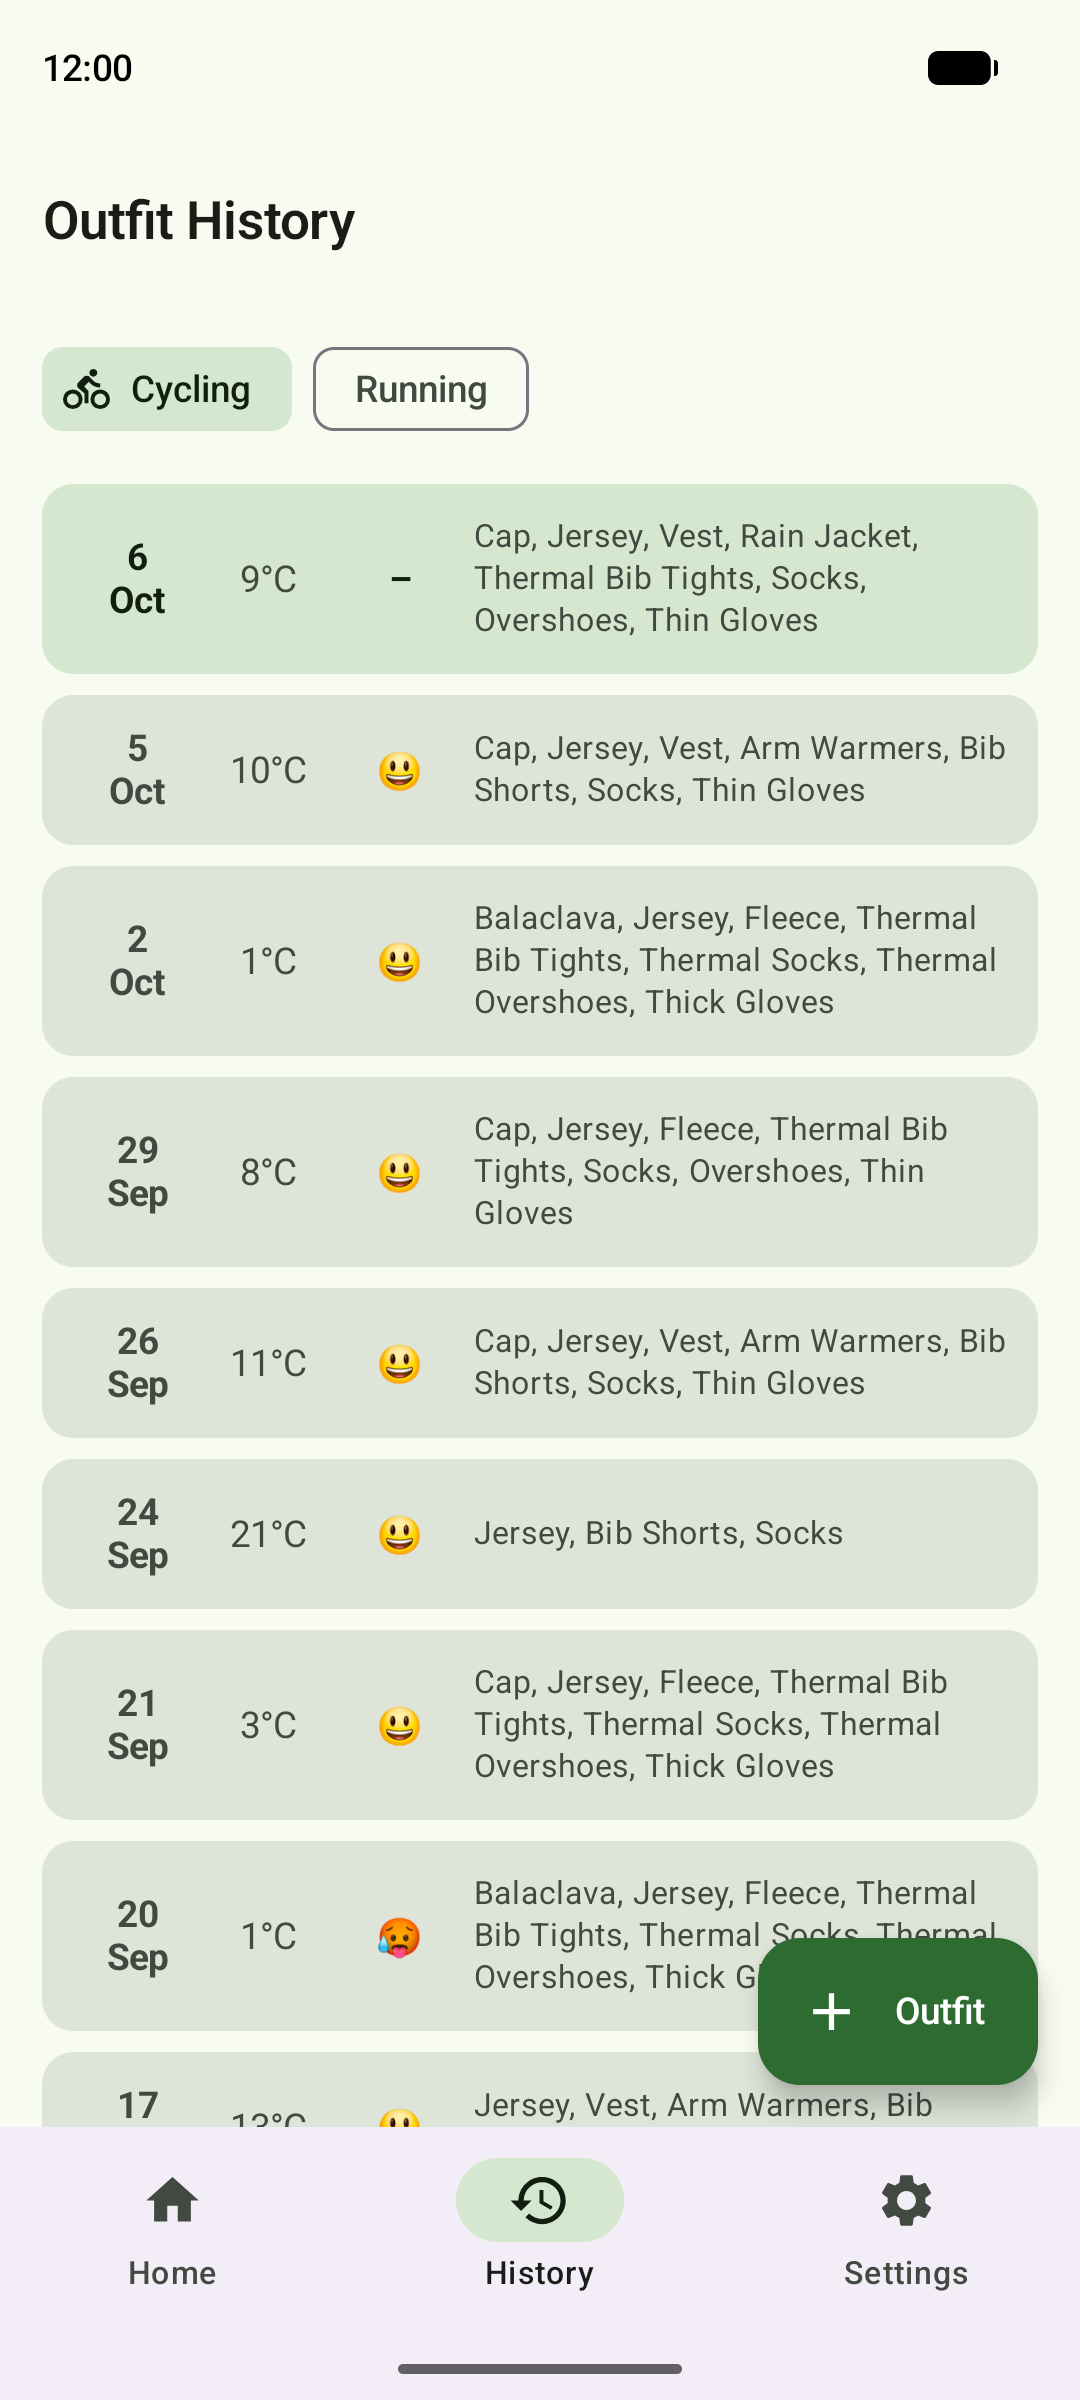
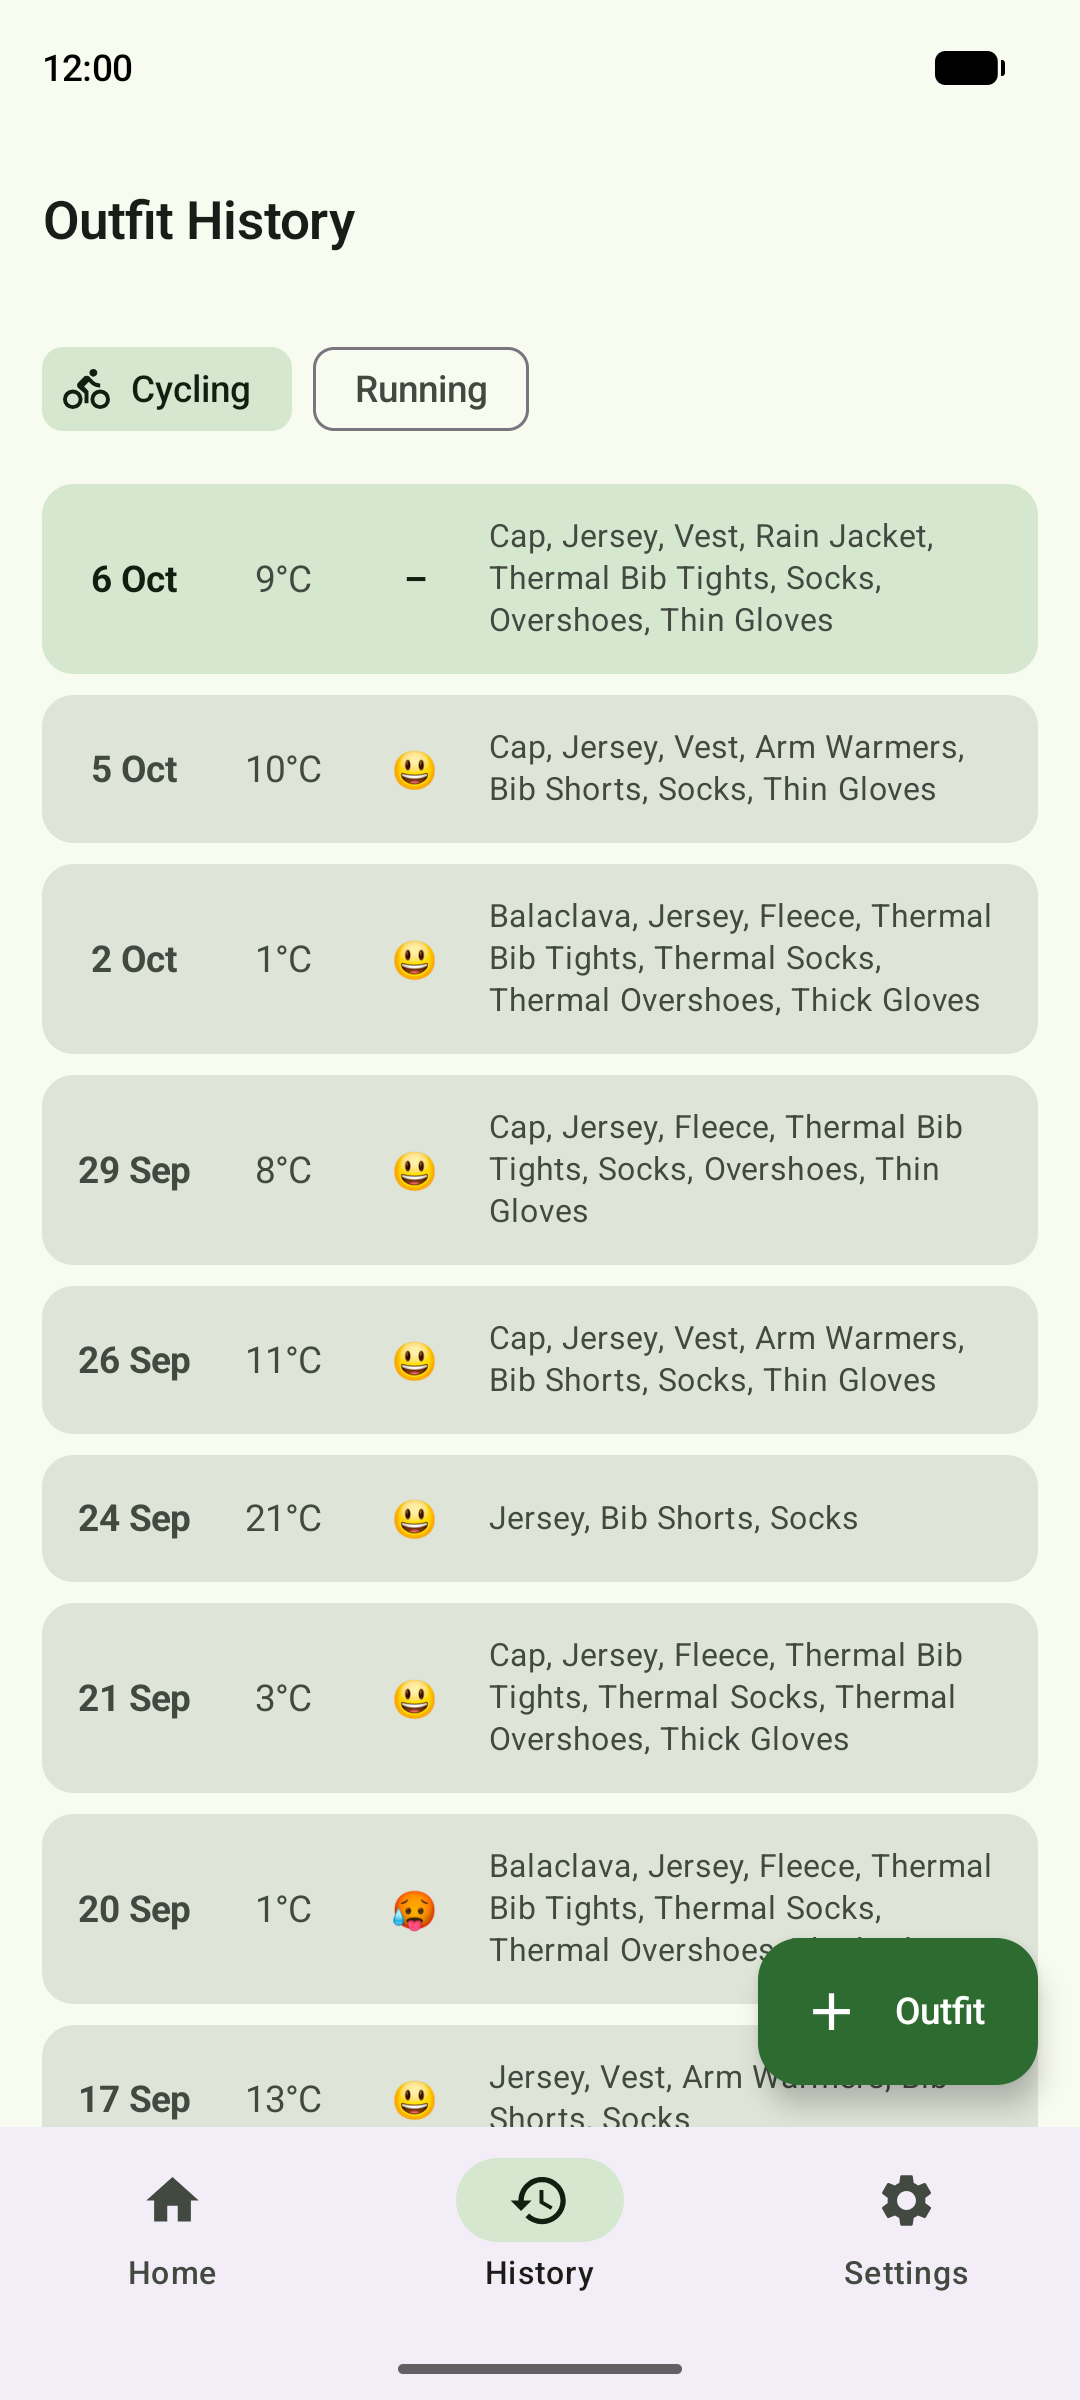
History: date on one line, so cards keep their height when selecting
The stacked day/month made cards taller than the selection circle, so
entries shrank once selection mode started. The date is now one line
("23 Juni"), in a column as wide as the widest "28 <month>" of the device
locale at the current font scale, with the circle's 24dp as minimum height.

diff --git a/app/src/main/java/com/example/perfectoutfit/feature/history/HistoryScreen.kt b/app/src/main/java/com/example/perfectoutfit/feature/history/HistoryScreen.kt
@@ -12,6 +12,7 @@ import androidx.compose.foundation.layout.Spacer
 import androidx.compose.foundation.layout.WindowInsets
 import androidx.compose.foundation.layout.fillMaxSize
 import androidx.compose.foundation.layout.fillMaxWidth
+import androidx.compose.foundation.layout.heightIn
 import androidx.compose.foundation.layout.padding
 import androidx.compose.foundation.layout.size
 import androidx.compose.foundation.layout.width
@@ -42,16 +43,22 @@ import androidx.compose.material3.TopAppBar
 import androidx.compose.runtime.Composable
 import androidx.compose.runtime.getValue
 import androidx.compose.runtime.mutableStateOf
+import androidx.compose.runtime.remember
 import androidx.compose.runtime.saveable.rememberSaveable
 import androidx.compose.runtime.setValue
 import androidx.compose.ui.Alignment
 import androidx.compose.ui.Modifier
 import androidx.compose.ui.draw.clip
 import androidx.compose.ui.hapticfeedback.HapticFeedbackType
+import androidx.compose.ui.platform.LocalConfiguration
+import androidx.compose.ui.platform.LocalDensity
 import androidx.compose.ui.platform.LocalHapticFeedback
 import androidx.compose.ui.res.painterResource
+import androidx.compose.ui.text.TextStyle
 import androidx.compose.ui.text.font.FontWeight
+import androidx.compose.ui.text.rememberTextMeasurer
 import androidx.compose.ui.text.style.TextAlign
+import androidx.compose.ui.unit.Dp
 import androidx.compose.ui.unit.dp
 import androidx.hilt.navigation.compose.hiltViewModel
 import androidx.lifecycle.compose.collectAsStateWithLifecycle
@@ -60,6 +67,7 @@ import com.example.perfectoutfit.core.model.Sport
 import com.example.perfectoutfit.ui.components.ratingEmoji
 import com.example.perfectoutfit.ui.components.verticalScrollbar
 import java.text.SimpleDateFormat
+import java.util.Calendar
 import java.util.Date
 import java.util.Locale
 
@@ -157,6 +165,7 @@ fun HistoryScreen(
                 )
             } else {
                 val lazyListState = rememberLazyListState()
+                val dateWidth = rememberDateWidth()
                 LazyColumn(
                     state = lazyListState,
                     contentPadding = PaddingValues(vertical = 4.dp),
@@ -169,6 +178,7 @@ fun HistoryScreen(
                             item = item,
                             selecting = selecting,
                             selected = id in selectedIds,
+                            dateWidth = dateWidth,
                             onClick = {
                                 if (selecting) viewModel.toggleSelection(id)
                                 else onNavigateToRateOutfit(id)
@@ -228,16 +238,13 @@ private fun HistoryCard(
     item: HistoryItem,
     selecting: Boolean,
     selected: Boolean,
+    dateWidth: Dp,
     onClick: () -> Unit,
     onLongClick: () -> Unit,
     modifier: Modifier = Modifier
 ) {
     val entry = item.details
-    val date = Date(entry.entry.createdAt)
-    val dayFormat = SimpleDateFormat("d", Locale.getDefault())
-    val monthFormat = SimpleDateFormat("MMM", Locale.getDefault())
-    val day = dayFormat.format(date)
-    val month = monthFormat.format(date)
+    val date = SimpleDateFormat(DATE_PATTERN, Locale.getDefault()).format(Date(entry.entry.createdAt))
 
     val isUnrated = entry.entry.comfortRating == null
     val emoji = ratingEmoji(entry.entry.comfortRating)
@@ -271,43 +278,42 @@ private fun HistoryCard(
                 .padding(12.dp),
             verticalAlignment = Alignment.CenterVertically
         ) {
-            // Date column — wide enough for four-letter month abbreviations.
-            // In selection mode the selection circle takes its place.
+            // Date column, one line wide enough for any month ("23 Juni", "28 Sept.").
+            // In selection mode the selection circle takes its place; the minimum
+            // height keeps the card from shrinking or growing when the mode changes.
             Box(
                 contentAlignment = Alignment.Center,
-                modifier = Modifier.width(48.dp)
+                modifier = Modifier
+                    .width(dateWidth)
+                    .heightIn(min = SELECTION_ICON_SIZE)
             ) {
                 if (selecting) {
                     if (selected) {
                         Icon(
                             Icons.Filled.CheckCircle,
                             contentDescription = "Selected",
+                            modifier = Modifier.size(SELECTION_ICON_SIZE),
                             tint = MaterialTheme.colorScheme.primary
                         )
                     } else {
                         Icon(
                             Icons.Outlined.RadioButtonUnchecked,
                             contentDescription = "Not selected",
+                            modifier = Modifier.size(SELECTION_ICON_SIZE),
                             tint = MaterialTheme.colorScheme.onSurfaceVariant
                         )
                     }
                 } else {
-                    Column(horizontalAlignment = Alignment.CenterHorizontally) {
-                        Text(
-                            text = day,
-                            style = MaterialTheme.typography.bodyMedium,
-                            fontWeight = FontWeight.Bold,
-                            textAlign = TextAlign.Center
-                        )
-                        Text(
-                            text = month,
-                            style = MaterialTheme.typography.bodyMedium,
-                            fontWeight = FontWeight.Bold,
-                            textAlign = TextAlign.Center
-                        )
-                    }
+                    Text(
+                        text = date,
+                        style = DateStyle(),
+                        textAlign = TextAlign.Center,
+                        maxLines = 1
+                    )
                 }
             }
+
+            Spacer(modifier = Modifier.width(8.dp))
 
             // Fixed width so the emojis line up whether it is 5°C or −12°C
             Text(
@@ -349,5 +355,28 @@ private fun HistoryCard(
                 modifier = Modifier.weight(1f)
             )
         }
+    }
+}
+
+private const val DATE_PATTERN = "d MMM"
+private val SELECTION_ICON_SIZE = 24.dp
+
+@Composable
+private fun DateStyle(): TextStyle = MaterialTheme.typography.bodyMedium.copy(fontWeight = FontWeight.Bold)
+
+/** Width of the widest date this locale can produce (a two-digit day with each month), at the current font scale. */
+@Composable
+private fun rememberDateWidth(): Dp {
+    val measurer = rememberTextMeasurer()
+    val style = DateStyle()
+    val density = LocalDensity.current
+    val locale = LocalConfiguration.current.locales[0]
+    return remember(measurer, style, density, locale) {
+        val format = SimpleDateFormat(DATE_PATTERN, locale)
+        val widest = (Calendar.JANUARY..Calendar.DECEMBER).maxOf { month ->
+            val date = Calendar.getInstance().apply { set(2000, month, 28) }.time
+            measurer.measure(format.format(date), style, maxLines = 1).size.width
+        }
+        with(density) { widest.toDp() }
     }
 }
